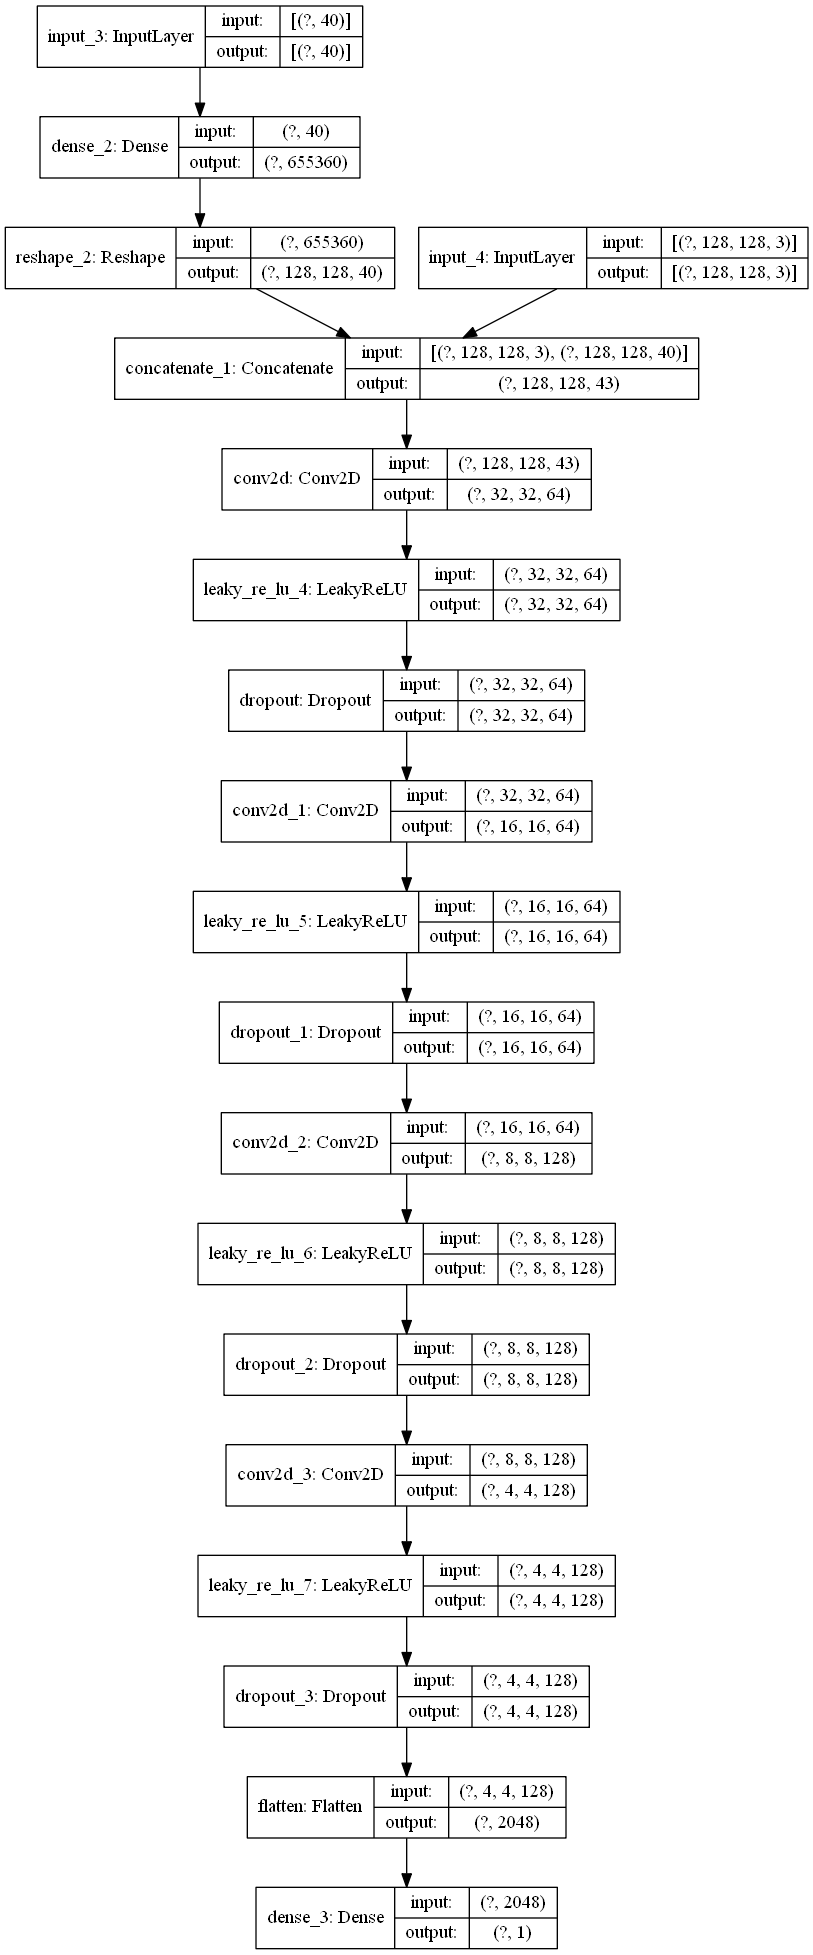
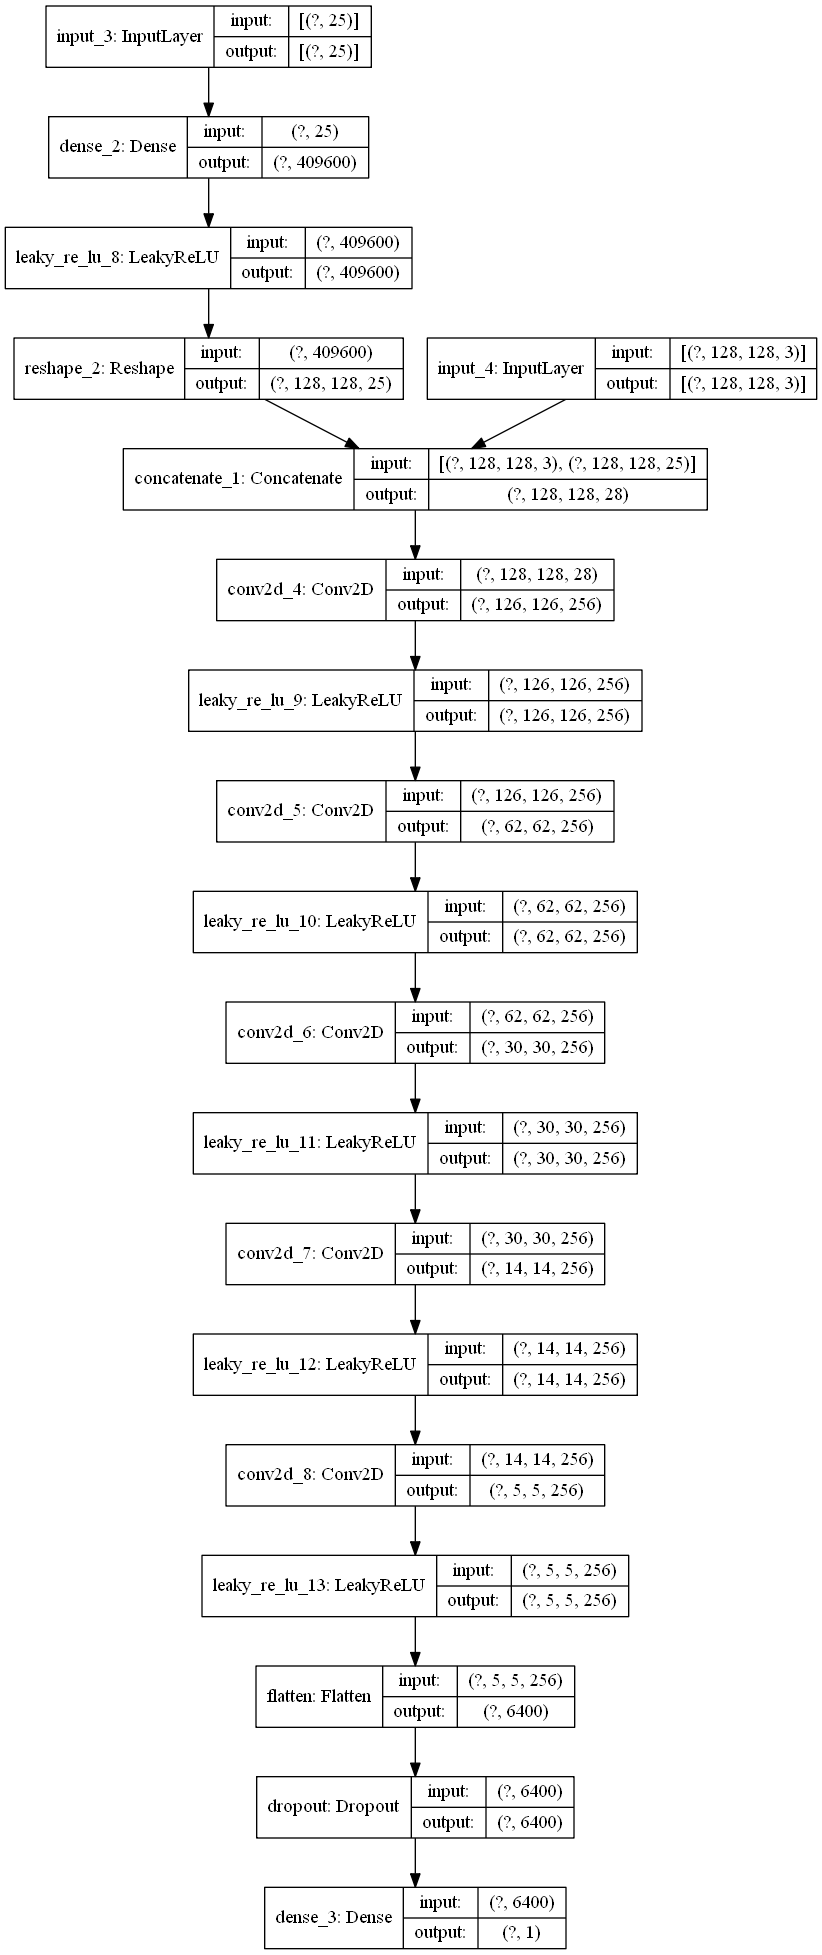
current stable model

diff --git a/src/Generator.py b/src/Generator.py
@@ -9,30 +9,35 @@ with open("config.json", "r") as f:
 def getGeneratorModel():
     numberOfFeatures = modelDetails['TotalAttributes']
     attributesInput = layers.Input(shape=(numberOfFeatures,))
-    attributes = layers.Dense(4 * 4 * numberOfFeatures)(attributesInput)
-    attributes = layers.Reshape([4, 4, numberOfFeatures])(attributes)
+    attributes = layers.Dense(16 * 16 * 116)(attributesInput)
+    attributes = layers.LeakyReLU()(attributes)
+    attributes = layers.Reshape([16, 16, 116])(attributes)
 
     randomVectorSize = modelDetails['RandomVectorSize']
     randomNoiseInput = layers.Input(shape=(randomVectorSize,))
-    randomNoise = layers.Dense(4 * 4 * 256)(randomNoiseInput)
-    randomNoise = layers.Reshape([4, 4, 256])(randomNoise)
+    randomNoise = layers.Dense(16 * 16 * 12)(randomNoiseInput)
+    randomNoise = layers.LeakyReLU()(randomNoise)
+    randomNoise = layers.Reshape([16, 16, 12])(randomNoise)
 
     merged = layers.Concatenate()([randomNoise, attributes])
-    generator = layers.BatchNormalization()(merged)
-    # 4x4 => 8x8
-    generator = layers.Conv2DTranspose(128, (5,5), (2,2), padding="same")(generator)
-    generator = layers.LeakyReLU(alpha=0.2)(generator)
-    # 8x8 => 16x16
-    generator = layers.Conv2DTranspose(128, (5,5), (2,2), padding="same")(generator)
-    generator = layers.LeakyReLU(alpha=0.2)(generator)
+    generator = layers.Conv2D(256, (5,5), padding="same")(merged)
+    generator = layers.LeakyReLU()(generator)
+    
     # 16x16 => 32x32
-    generator = layers.Conv2DTranspose(128, (5,5), (2,2), padding="same")(generator)
-    generator = layers.LeakyReLU(alpha=0.2)(generator)
+    generator = layers.Conv2DTranspose(256, (4,4), (2,2), padding="same")(generator)
+    generator = layers.LeakyReLU()(generator)
     # 32x32 => 64x64
-    generator = layers.Conv2DTranspose(128, (5,5), (2,2), padding="same")(generator)
-    generator = layers.LeakyReLU(alpha=0.2)(generator)
+    generator = layers.Conv2DTranspose(256, (4,4), (2,2), padding="same")(generator)
+    generator = layers.LeakyReLU()(generator)
     # 64x64 => 128x128
-    generator = layers.Conv2DTranspose(3, (5,5), (2,2), padding="same", activation="selu")(generator)
+    generator = layers.Conv2DTranspose(256, (4,4), (2,2), padding="same")(generator)
+    generator = layers.LeakyReLU()(generator)
+
+    generator = layers.Conv2D(512, (5,5), padding="same")(generator)
+    generator = layers.LeakyReLU()(generator)
+    generator = layers.Conv2D(512, (5,5), padding="same")(generator)
+    generator = layers.LeakyReLU()(generator)
+    generator = layers.Conv2D(3, (7,7), padding="same", activation='tanh')(generator)
 
     generatorModel = keras.models.Model([attributesInput, randomNoiseInput], generator)
 

diff --git a/src/Discriminator.py b/src/Discriminator.py
@@ -9,31 +9,43 @@ with open("config.json", "r") as f:
 def getDiscriminatorModel():
     numberOfFeatures = modelDetails['TotalAttributes']
     attributesInput = layers.Input(shape=(numberOfFeatures,))
+    
     attributes = layers.Dense(128 * 128 * numberOfFeatures)(attributesInput)
+    attributes = layers.LeakyReLU()(attributes)
     attributes = layers.Reshape([128, 128, numberOfFeatures])(attributes)
 
     imageShape = (128, 128, 3)
     imageInput = layers.Input(shape=imageShape)
 
     merged = layers.Concatenate()([imageInput, attributes])
-    # 128x128 => 32x32
-    discriminator = layers.Conv2D(64, (5,5), (4,4), padding='same')(merged)
+    # 128x128 => 64x64
+    discriminator = layers.Conv2D(256, (3,3))(merged)
+    discriminator = layers.LeakyReLU()(discriminator)
+    # discriminator = keras.layers.Dropout(0.3)(discriminator)
+
+    # 64x64x => 32x32
+    discriminator = layers.Conv2D(256, (4,4), (2,2))(discriminator)
     discriminator = layers.LeakyReLU(0.2)(discriminator)
-    discriminator = keras.layers.Dropout(0.3)(discriminator)
+    # discriminator = keras.layers.Dropout(0.3)(discriminator)
+
     # 32x32 => 16x16
-    discriminator = layers.Conv2D(64, (5,5), (2,2), padding='same')(discriminator)
+    discriminator = layers.Conv2D(256, (4,4), (2,2))(discriminator)
     discriminator = layers.LeakyReLU(0.2)(discriminator)
-    discriminator = keras.layers.Dropout(0.3)(discriminator)
+    # discriminator = keras.layers.Dropout(0.3)(discriminator)
+
     # 16x16 => 8x8
-    discriminator = layers.Conv2D(128, (5,5), (2,2), padding='same')(discriminator)
+    discriminator = layers.Conv2D(256, (4,4), (2,2))(discriminator)
     discriminator = layers.LeakyReLU(0.2)(discriminator)
-    discriminator = keras.layers.Dropout(0.3)(discriminator)
+    # discriminator = keras.layers.Dropout(0.3)(discriminator)
+
     # 8x8 => 4x4
-    discriminator = layers.Conv2D(128, (5,5), (2,2), padding='same')(discriminator)
+    discriminator = layers.Conv2D(256, (5,5), (2,2))(discriminator)
     discriminator = layers.LeakyReLU(0.2)(discriminator)
-    discriminator = keras.layers.Dropout(0.3)(discriminator)
+    # discriminator = keras.layers.Dropout(0.3)(discriminator)
+
     # 4x4 => 16 x neurons
     discriminator = keras.layers.Flatten()(discriminator)
+    discriminator = keras.layers.Dropout(0.4)(discriminator)
     discriminator = layers.Dense(1, activation='sigmoid')(discriminator)
 
     discriminatorModel = keras.models.Model([attributesInput, imageInput], discriminator)

diff --git a/src/gan.py b/src/gan.py
@@ -10,8 +10,9 @@ def getGanModel():
     generator = getGeneratorModel()
     discriminator = getDiscriminatorModel()
 
-    opt = keras.optimizers.Adam(lr=0.0002, beta_1=0.5)
-    discriminator.compile(loss='binary_crossentropy', optimizer="rmsprop")
+    # opt = keras.optimizers.Adam(lr=0.0002, beta_1=0.5)
+    opt = keras.optimizers.RMSprop(lr=0.0001, clipvalue=1.0, decay=1e-8)
+    discriminator.compile(loss='binary_crossentropy', optimizer=opt)
     discriminator.trainable = False
 
     generatorAttributes, generatorNoise = generator.input
@@ -21,7 +22,8 @@ def getGanModel():
 
     ganModel = keras.models.Model([generatorNoise, generatorAttributes], ganOutput)
 
-    opt = keras.optimizers.Adam(lr=0.0002, beta_1=0.5)
+    # opt = keras.optimizers.Adam(lr=0.0002, beta_1=0.5)
+    opt = keras.optimizers.RMSprop(lr=0.0001, clipvalue=1.0, decay=1e-8)
     ganModel.compile(loss='binary_crossentropy', optimizer=opt)
     return ganModel, generator, discriminator
 
